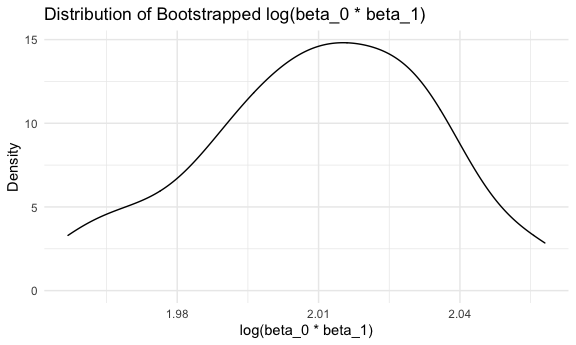
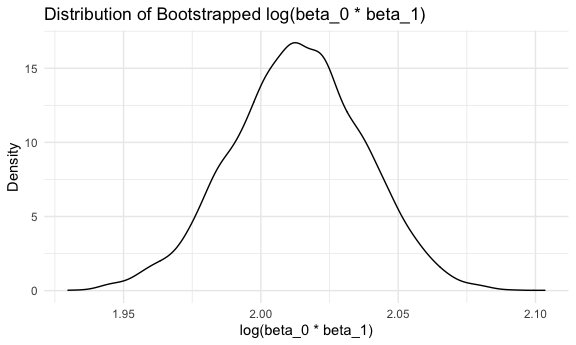
updated plots, increased straps to 5000, finished prob 3 and last data sci hw!!!!!

diff --git a/hw6_amw2275.md b/hw6_amw2275.md
@@ -285,7 +285,7 @@ Rad, now let’s bootstrap.
 ``` r
 weather_strap_df = 
   weather_df %>% 
-  bootstrap(50, id = "strap_number") %>% 
+  bootstrap(5000, id = "strap_number") %>% 
   mutate(
     models = map(.x = strap, ~lm(tmax ~ tmin, data = .x)),
     betas = map(models, broom::tidy),
@@ -310,8 +310,8 @@ weather_strap_df =
   )
 ```
 
-Cool, now let’s examine the distribution of both \(\hat r^2\) and
-\(log(\hat \beta_0 * \hat \beta_1)\).
+Cool, now let’s examine the distribution of both R-squared and
+log(beta\_0 \* beta\_1).
 
 ``` r
 log_beta_plot = 
@@ -345,25 +345,33 @@ r_squared_plot
 
 <img src="hw6_amw2275_files/figure-gfm/dist_plots-2.png" width="90%" />
 
-The distribution of \(log(\hat \beta_0 * \hat \beta_1)\) appears to be
-bimodal, with peaks around 1.996 and again at 2.03, but has a very tight
-distribution, as the range is from about 1.984 to 2.062. The
-distribution of \(\hat r^2\) appears to be relatively normal, with a
-peak near 0.91 and a slight left-skewness.
+The distribution of log(beta\_0 \* beta\_1) appears to be normal, with a
+range from roughly 1.90 to 2.08, and a peak near 2.04. Similarly, the
+distribution of R-squared also seems to be mostly normal, with a range
+from 0.87 to 0.94, a peak around 0.91, and slight left-skewness.
 
 Let’s now create a tibble of the estimated CI for both measures.
 
 ``` r
-weather_strap_df %>% 
+ci_df = 
+  weather_strap_df %>% 
   summarize(
     r_ci_lower = quantile(r_squared, 0.025),
     r_ci_upper = quantile(r_squared, 0.975),
     b_ci_lower = quantile(log_betas, 0.025),
     b_ci_upper = quantile(log_betas, 0.975)
   ) %>% 
-  knitr::kable()
+  knitr::kable(
+    col.names = c("R-squared CI Lower Bound",
+                  "R-squared CI Upper Bound",
+                  "Log-betas CI Lower Bound",
+                  "Log-betas CI Upper Bound"),
+    digits = 2
+  )
+
+ci_df
 ```
 
-| r\_ci\_lower | r\_ci\_upper | b\_ci\_lower | b\_ci\_upper |
-| -----------: | -----------: | -----------: | -----------: |
-|    0.8971014 |    0.9263476 |      1.95846 |     2.055063 |
+| R-squared CI Lower Bound | R-squared CI Upper Bound | Log-betas CI Lower Bound | Log-betas CI Upper Bound |
+| -----------------------: | -----------------------: | -----------------------: | -----------------------: |
+|                     0.89 |                     0.93 |                     1.96 |                     2.06 |
